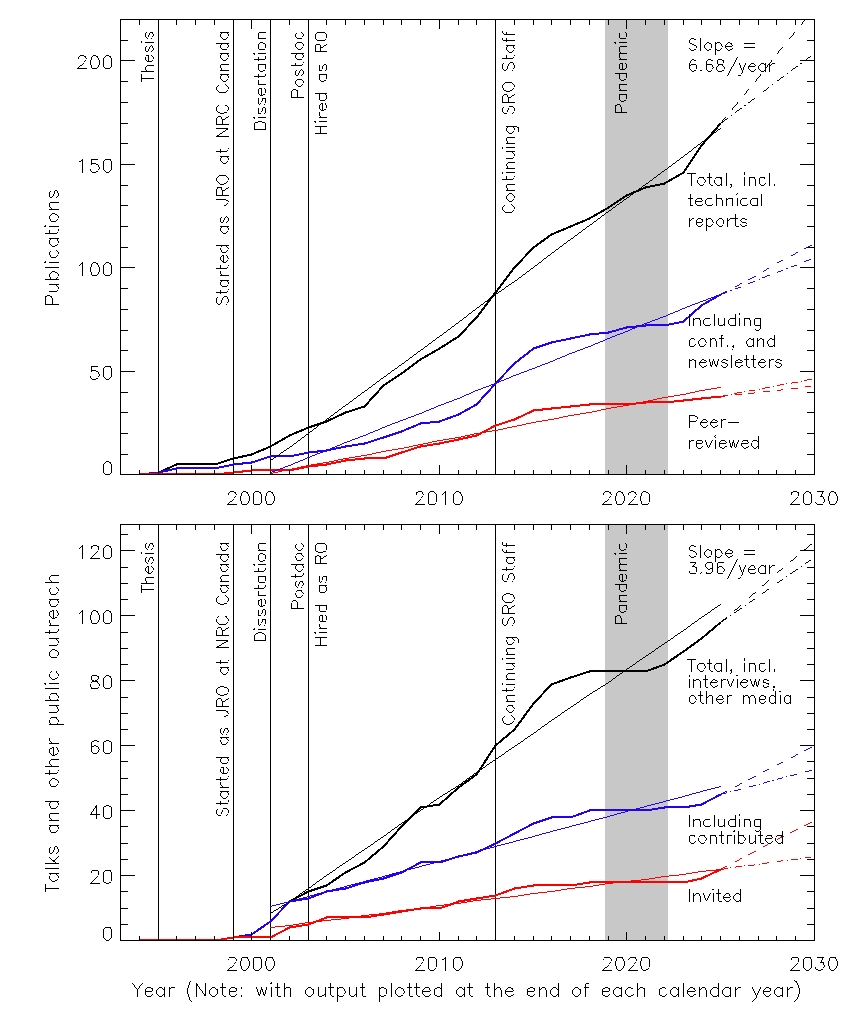
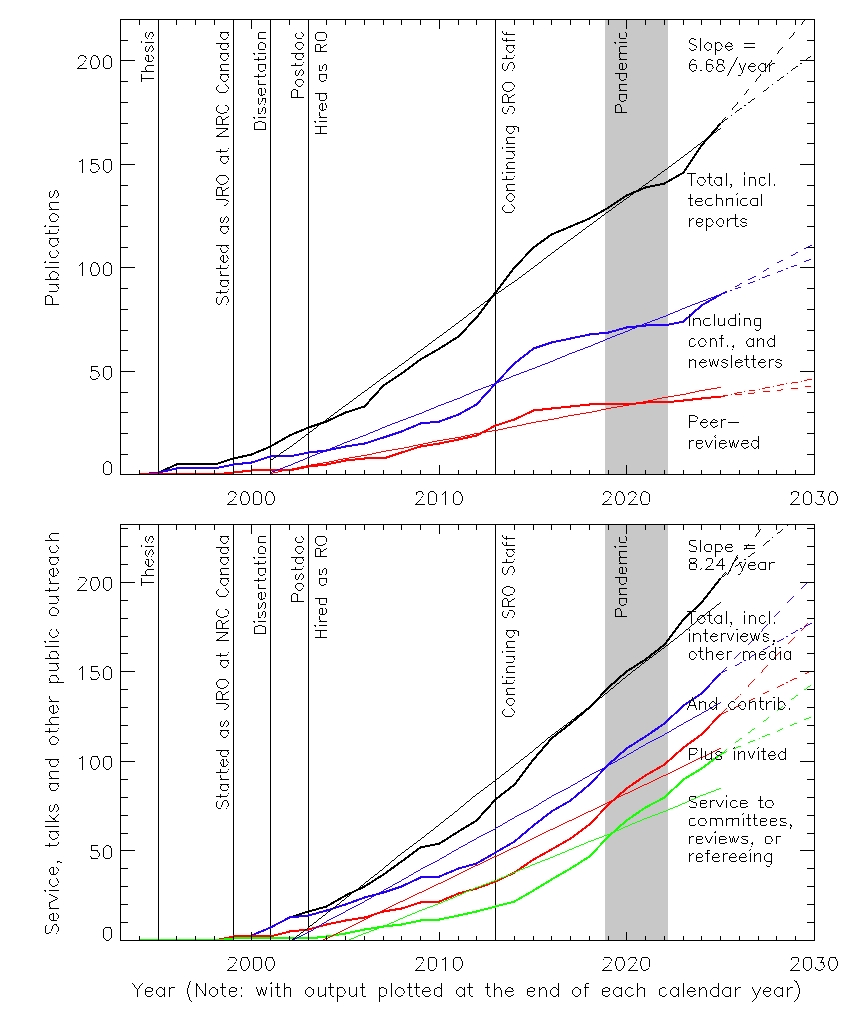
Add files via upload

diff --git a/curriculum_vitae/curriculum_vitae_reformat.html b/curriculum_vitae/curriculum_vitae_reformat.html
@@ -226,6 +226,9 @@ University of Winnipeg Collegiate<br>
 <b>Referee</b>, Photonics Journal, 2024
 </li>
 <li>
+<b>Member</b>, Gemini Observatory Operations Working Group, 2023-present
+</li>
+<li>
 <b>Panelist</b>, Natural Sciences and Engineering Research Council of Canada Postdoctoral Fellowship Committee, 2022-2023
 </li>
 <li>
